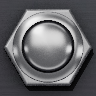
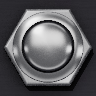
Footswitch DRIVE no canto inferior direito; só o logotipo principal
- Footswitch, LED azul e rótulo DRIVE movidos para o canto inferior direito
- Remove o selo superior direito e o rodapé com o nome (e seus
  subtítulos/microtextos); mantém só o logotipo AURA BASS

Claude-Session: https://claude.ai/code/session_01UHzrWYC5rSokpECmtT3qnZ

Changed region(s): [[0.0, 0.0, 1.0, 0.3438], [0.0, 0.25, 0.0938, 0.2812]]

diff --git a/Tools/build_ui_assets.py b/Tools/build_ui_assets.py
@@ -46,10 +46,10 @@ VALUE_RECTS = [(150, 745, 300, 790), (325, 745, 475, 790), (500, 745, 650, 790),
 LED_DRIVE = (249.0, 445.0, 9.5)           # x, y, raio da lente (posição original na arte)
 
 # Footswitch do DRIVE (renderizado por Tools/FootswitchRender) e nova posição do LED azul
-FS_CENTER = (190.0, 452.0)
+FS_CENTER = (1385.0, 858.0)              # canto inferior direito
 FS_WIPE = (145, 398, 352, 494)            # região do antigo botão power + LED + rótulo
 FS_DOWN_HALF = 48
-LED_DRIVE_NEW = (266.0, 452.0)
+LED_DRIVE_NEW = (1306.0, 858.0)
 LED_DRIVE_HALF = 22
 LED_CAB = (1416.7, 579.3, 9.0)
 LED_HALF = 32                             # meio lado do recorte do LED (px)
@@ -289,6 +289,9 @@ def main():
     gx, gy = 1200, 340
     gh, gw = gp.shape[:2]
     ga = gp[..., 3:4] / 255.0
+    # Mantém só o texto vertical e o traço lateral; tira subtítulos/microtextos ligados à marca
+    for x0r, y0r, x1r, y1r in [(1303, 893, 1444, 912), (1226, 890, 1300, 912), (1234, 360, 1306, 382)]:
+        ga[y0r - gy:y1r - gy, x0r - gx:x1r - gx] = 0.0
     img[gy:gy + gh, gx:gx + gw] = img[gy:gy + gh, gx:gx + gw] * (1 - ga) + gp[..., :3] * ga
 
     # 5) Marca AURA BASS no estilo da referência
@@ -308,13 +311,8 @@ def main():
 
     # Logotipo grande (com desgaste)
     composite(img, text_layer("AURA BASS", russo(77), 163, 380, spacing=1.5), (218, 219, 223), 0.97, True, 11)
-    # Selo superior direito
-    composite(img, text_layer("AURA BASS", russo(33), 1438, 357, "rs", 0.5), (142, 144, 149), 1.0)
-    composite(img, text_layer("BASS PREAMP", roboto(18), 1437, 379, "rs", 0.6), (128, 130, 135), 1.0)
-    # Rodapé inferior direito
-    composite(img, text_layer("AURA BASS", russo(31), 1440, 888, "rs", 0.5), (128, 130, 135), 1.0)
-    # Rótulo do botão DRIVE
-    composite(img, text_layer("DRIVE", roboto(19), 293, 459, "ls", 1.8), (170, 172, 177), 1.0)
+    # Rótulo do footswitch DRIVE (à esquerda do LED)
+    composite(img, text_layer("DRIVE", roboto(19), 1274, 865, "rs", 1.8), (170, 172, 177), 1.0)
 
     # Sobreposições do DRIVE: LED aceso e footswitch pressionado
     img_on = img.copy()

diff --git a/Source/Layout.h b/Source/Layout.h
@@ -25,11 +25,11 @@ namespace AuraLayout
     inline constexpr float valueFontSize = 14.0f;
 
     // Footswitch do DRIVE + LED azul + rótulo
-    inline constexpr float driveSwitchX = 58.0f, driveSwitchY = 95.0f;
+    inline constexpr float driveSwitchX = 655.5f, driveSwitchY = 298.0f;   // canto inferior direito
     inline constexpr float driveSwitchDownHalf = 24.0f;   // sobreposição "pressionado"
-    inline constexpr float driveLedX = 96.0f, driveLedY = 95.0f, driveLedHalf = 11.0f;
+    inline constexpr float driveLedX = 616.0f, driveLedY = 298.0f, driveLedHalf = 11.0f;
     struct Rect { float x, y, w, h; };
-    inline constexpr Rect driveHit { 34.0f, 71.0f, 116.0f, 48.0f };
+    inline constexpr Rect driveHit { 564.0f, 274.0f, 116.0f, 48.0f };
 
     // CAB (rótulo, LED laranja e chave alavanca)
     inline constexpr float cabLedX = 671.35f, cabLedY = 158.65f;

diff --git a/README.md b/README.md
@@ -1,6 +1,6 @@
 # AURA Bass — overdrive de baixo (JUCE)
 
-Plugin de overdrive para baixo com Drive, Blend paralelo, Low, Mid, High, Presence, Level, simulação de caixa e footswitches para ligar e desligar o DRIVE e o CAB.
+Plugin de overdrive para baixo com Drive, Blend paralelo, Low, Mid, High, Presence, Level, simulação de caixa (chave CAB) e footswitch para ligar e desligar o DRIVE.
 
 ## Controles
 
@@ -81,7 +81,7 @@ A interface usa a arte de referência do painel: placa de metal escuro escovado,
 
 | Arquivo | Conteúdo |
 |---|---|
-| `background.jpg` | painel em 2x, sem os indicadores dos knobs e sem os valores, LEDs apagados, com o nome AURA BASS (Russo One, com desgaste) |
+| `background.jpg` | painel em 2x, sem os indicadores dos knobs e sem os valores, LEDs apagados, com o logotipo AURA BASS (Russo One, com desgaste) e o footswitch do DRIVE no canto inferior direito |
 | `pointer.png` | indicador do knob, que gira conforme o valor |
 | `led_drive_on.png`, `led_cab_on.png` | LEDs acesos |
 | `cab_off.png` | chave do CAB na outra posição (alavanca espelhada) |
